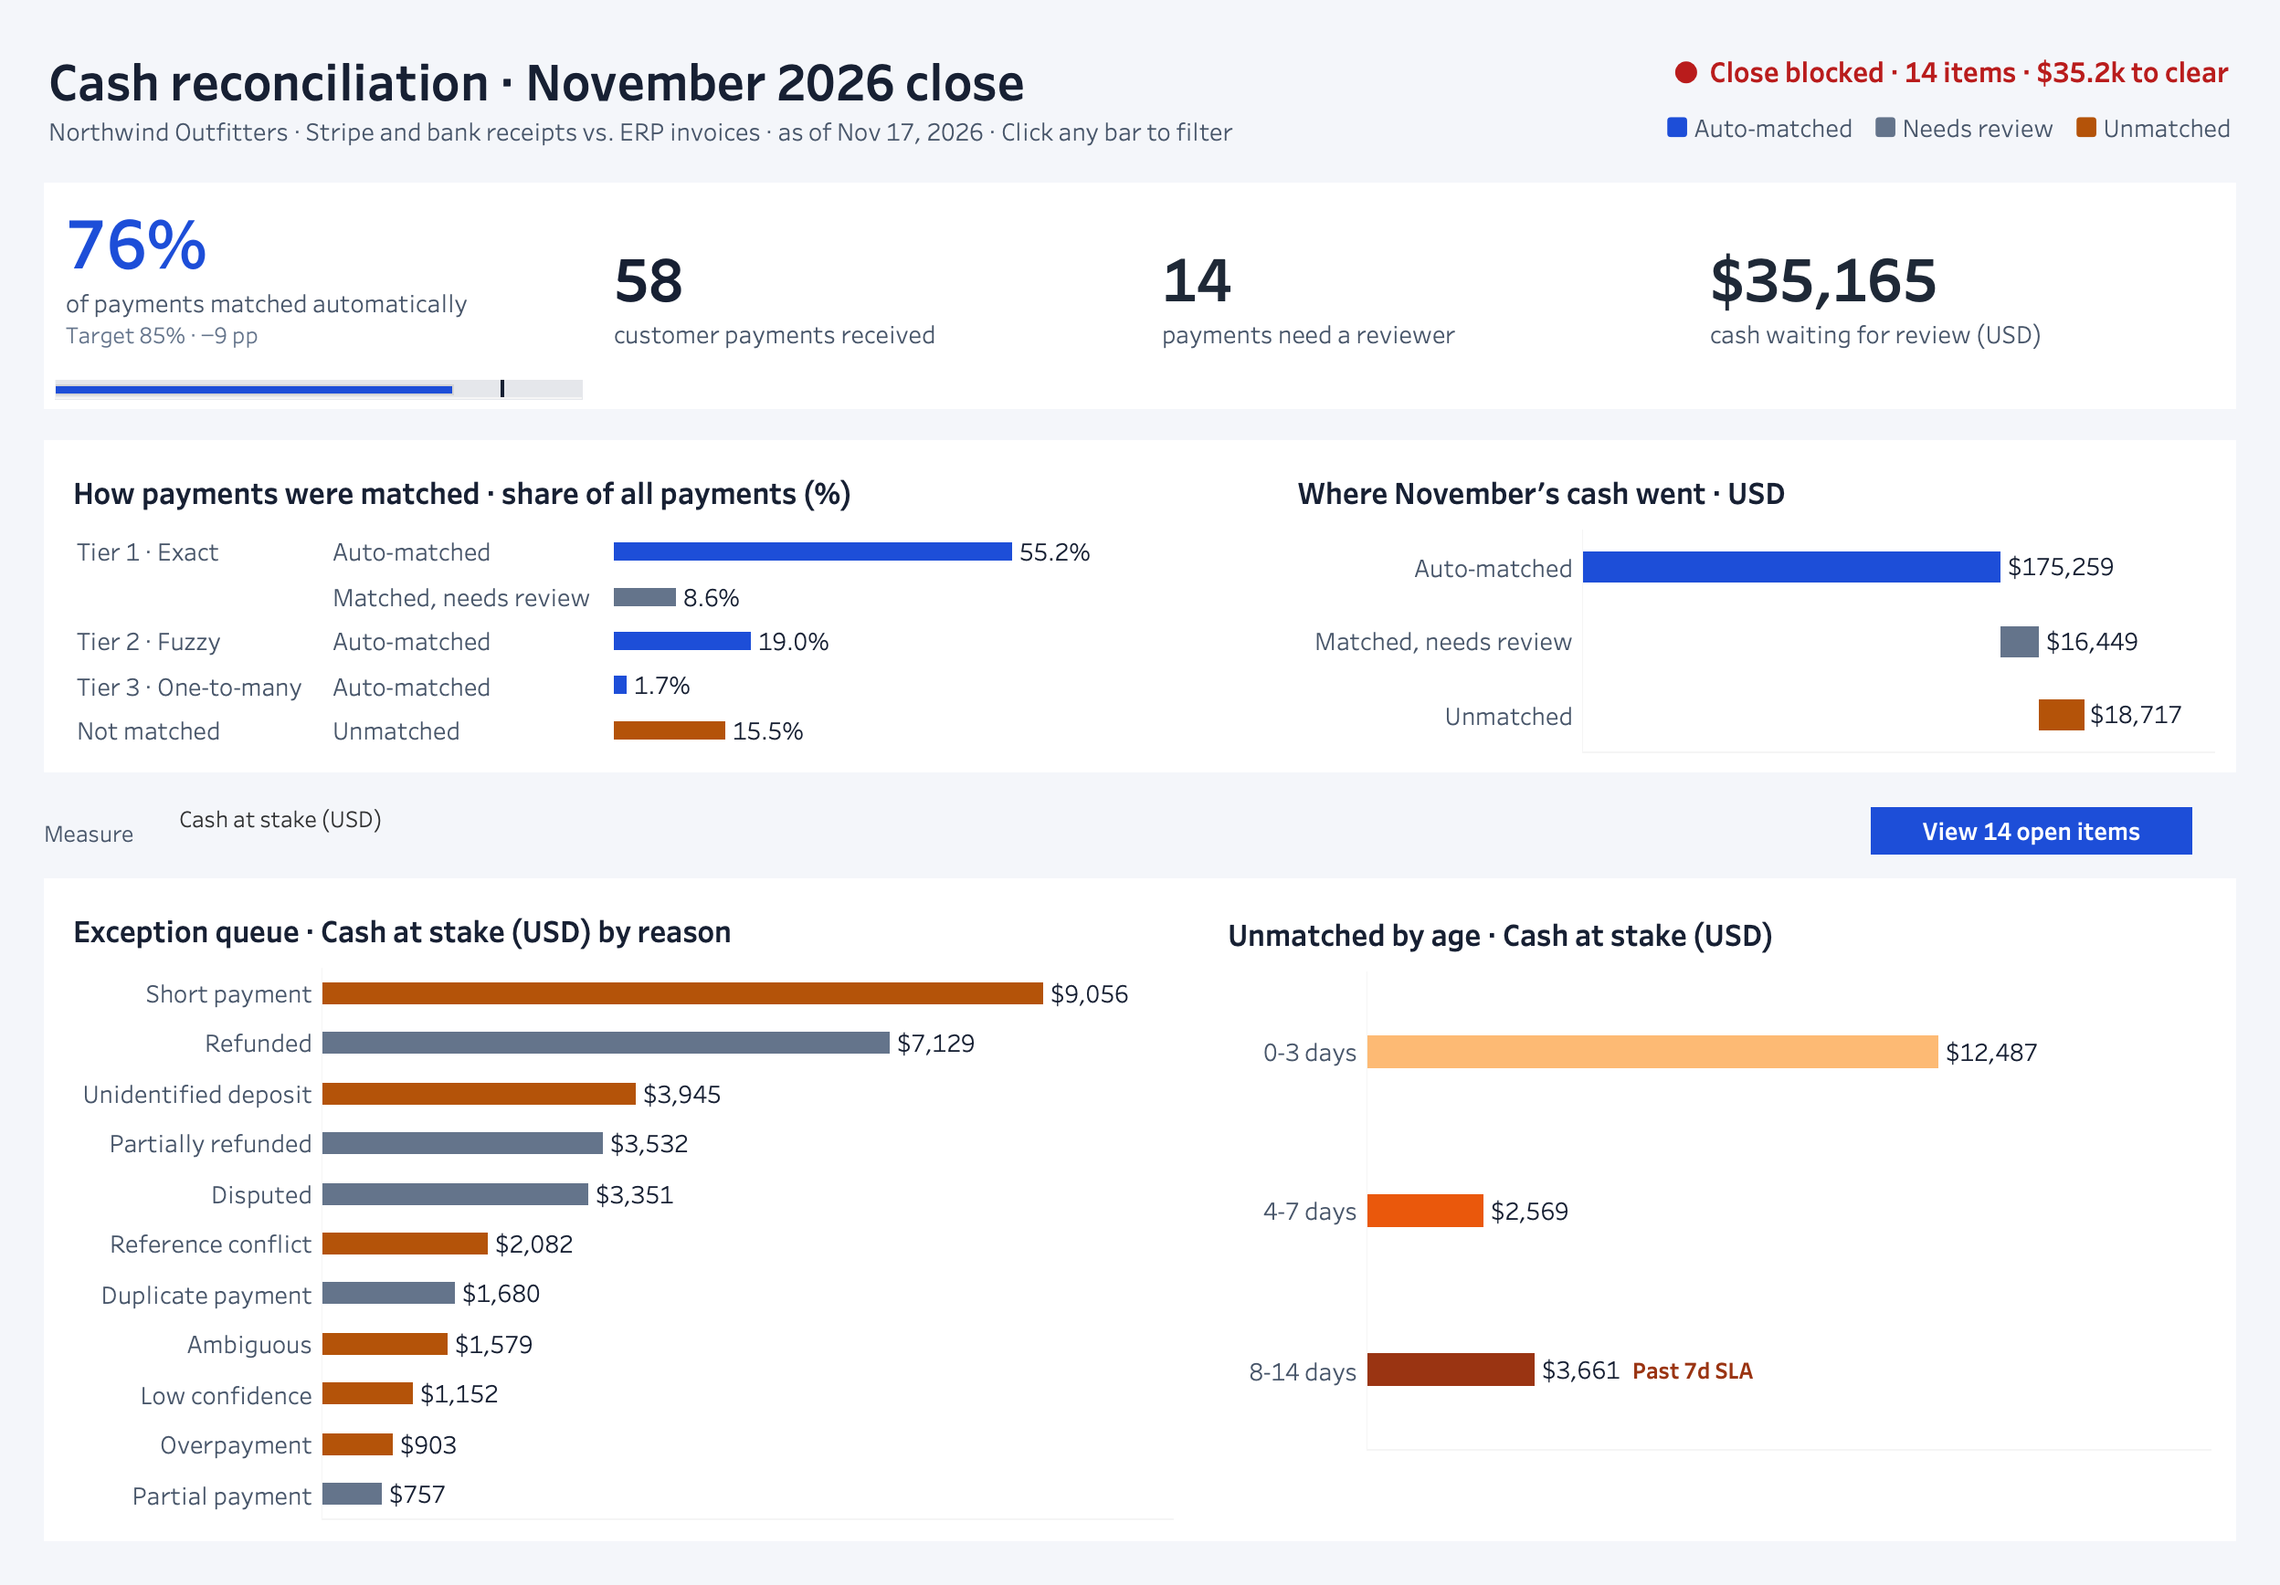
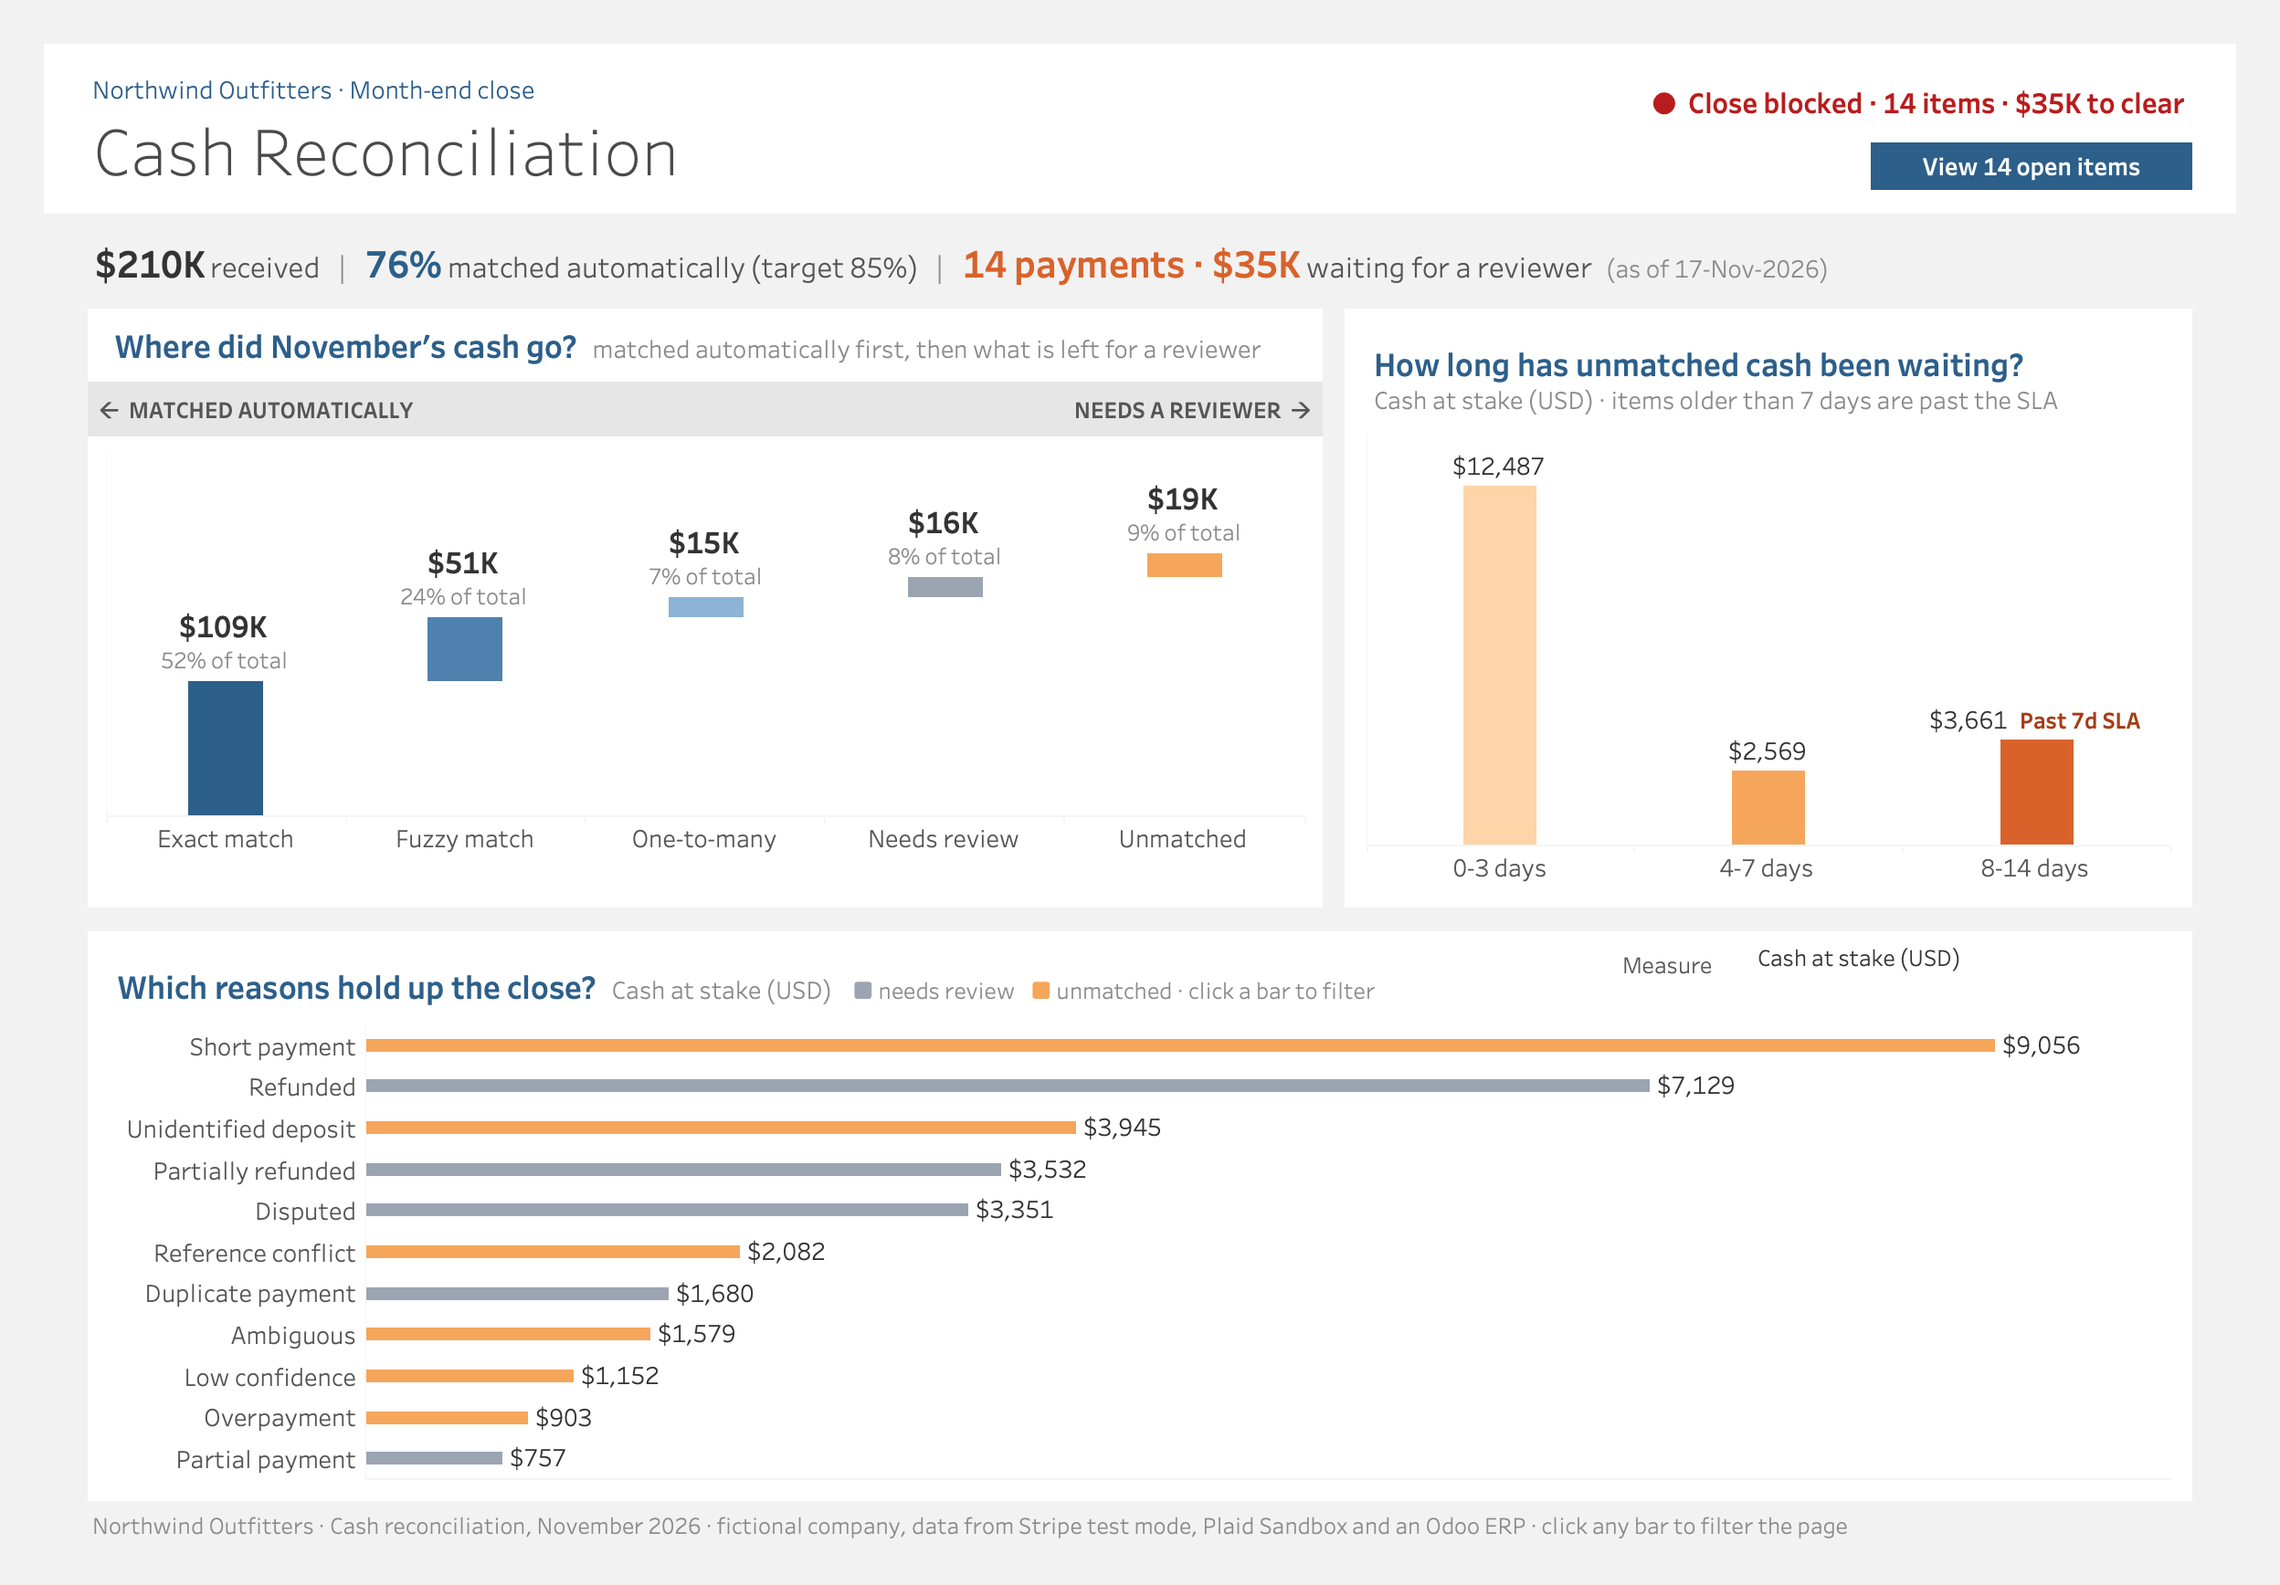
Close dashboard v8: finance-report layout with a cash-flow waterfall by matching step
- Header band with close status and the open-items button; KPIs as one headline sentence
- Waterfall from exact matches to unmatched cash, each step with its share of the total
- Aging and exception queue as question-led panels in a steel-blue and peach palette
- README screenshot exported from the new workbook

diff --git a/README.md b/README.md
@@ -61,7 +61,7 @@ RECON_DUCKDB_PATH=demo.duckdb make app             # open the review app
 
 ## Close dashboard (Tableau)
 
-![Tableau close dashboard: close status, match rate by tier, where the cash went, exception queue and aging](docs/img/close-dashboard.png)
+![Tableau close dashboard: close status, where November's cash went by matching step, aging of unmatched cash and the exception queue](docs/img/close-dashboard.png)
 
 The same close on one page for the controller: can the month be signed off, where the cash went, which exceptions hold it up and how long unmatched cash has been waiting. Clicking a bar filters the page, the measure switch flips the bottom charts between dollars and payment count, and the open-items drawer links each payment to its case in the review app.
 
